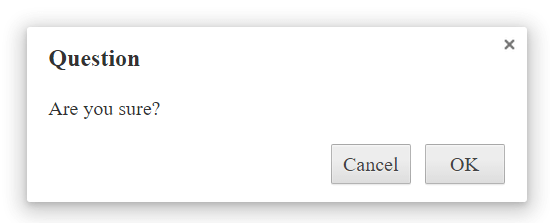
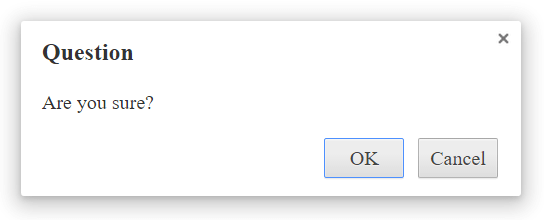
chore(package) v1.4.0

Changed region(s): [[0.0312, 0.1091, 0.9688, 0.9]]

diff --git a/dist/smalltalk.poly.min.js b/dist/smalltalk.poly.min.js
@@ -1,2 +1,2 @@
 /*! promise-polyfill 2.1.0 */
-!function(a){function b(a,b){return function(){a.apply(b,arguments)}}function c(a){if("object"!=typeof this)throw new TypeError("Promises must be constructed via new");if("function"!=typeof a)throw new TypeError("not a function");this._state=null,this._value=null,this._deferreds=[],i(a,b(e,this),b(f,this))}function d(a){var b=this;return null===this._state?void this._deferreds.push(a):void j(function(){var c=b._state?a.onFulfilled:a.onRejected;if(null===c)return void(b._state?a.resolve:a.reject)(b._value);var d;try{d=c(b._value)}catch(e){return void a.reject(e)}a.resolve(d)})}function e(a){try{if(a===this)throw new TypeError("A promise cannot be resolved with itself.");if(a&&("object"==typeof a||"function"==typeof a)){var c=a.then;if("function"==typeof c)return void i(b(c,a),b(e,this),b(f,this))}this._state=!0,this._value=a,g.call(this)}catch(d){f.call(this,d)}}function f(a){this._state=!1,this._value=a,g.call(this)}function g(){for(var a=0,b=this._deferreds.length;b>a;a++)d.call(this,this._deferreds[a]);this._deferreds=null}function h(a,b,c,d){this.onFulfilled="function"==typeof a?a:null,this.onRejected="function"==typeof b?b:null,this.resolve=c,this.reject=d}function i(a,b,c){var d=!1;try{a(function(a){d||(d=!0,b(a))},function(a){d||(d=!0,c(a))})}catch(e){if(d)return;d=!0,c(e)}}var j="function"==typeof setImmediate&&setImmediate||function(a){setTimeout(a,1)},k=Array.isArray||function(a){return"[object Array]"===Object.prototype.toString.call(a)};c.prototype["catch"]=function(a){return this.then(null,a)},c.prototype.then=function(a,b){var e=this;return new c(function(c,f){d.call(e,new h(a,b,c,f))})},c.all=function(){var a=Array.prototype.slice.call(1===arguments.length&&k(arguments[0])?arguments[0]:arguments);return new c(function(b,c){function d(f,g){try{if(g&&("object"==typeof g||"function"==typeof g)){var h=g.then;if("function"==typeof h)return void h.call(g,function(a){d(f,a)},c)}a[f]=g,0===--e&&b(a)}catch(i){c(i)}}if(0===a.length)return b([]);for(var e=a.length,f=0;f<a.length;f++)d(f,a[f])})},c.resolve=function(a){return a&&"object"==typeof a&&a.constructor===c?a:new c(function(b){b(a)})},c.reject=function(a){return new c(function(b,c){c(a)})},c.race=function(a){return new c(function(b,c){for(var d=0,e=a.length;e>d;d++)a[d].then(b,c)})},c._setImmediateFn=function(a){j=a},"undefined"!=typeof module&&module.exports?module.exports=c:a.Promise||(a.Promise=c)}(this);"use strict";!function(n){function t(n){function e(n,t,e,r){if(!Array.isArray(r))throw Error("buttons should be array!");return'<div class="page">\n                <div data-name="js-close" class="close-button"></div>\n                <header>'+n+'</header>\n                <div class="content-area">\n                    '+t+"\n                    "+e+'\n                </div>\n                <div class="action-area">\n                    <div class="button-strip"> '+r.map(function(n,t){return"<button tabindex="+t+' data-name="js-'+n.toLowerCase()+'">'+n+"</button>"}).join("")+"\n                    </div>\n                </div>\n            </div>"}function r(n,t,r,o,u){var c=document.createElement("div"),s=["cancel","close","ok"],d=void 0,v=void 0,m=new Promise(function(n,t){var e=u&&!u.cancel,r=function(){};d=n,v=t,e&&(v=r)}),p=e(n,t,r,o);return c.innerHTML=p,c.className="smalltalk",document.body.appendChild(c),l(c,["ok"]).forEach(function(n){return n.focus()}),l(c,["input"]).forEach(function(n){return n.setSelectionRange(0,r.length)}),f("click",c,s,function(n){return i(n.target,c,d,v)}),["click","contextmenu"].forEach(function(n){return c.addEventListener(n,function(){return l(c,["ok","input"]).forEach(function(n){return n.focus()})})}),c.addEventListener("keydown",a(c,d,v)),m}function a(n,t,e){return function(r){var a={ENTER:13,ESC:27,TAB:9,LEFT:37,UP:38,RIGHT:39,DOWN:40},f=r.keyCode,s=r.target,d=["cancel","ok","input"],m=l(n,d).map(function(n){return o(n)});switch(f){case a.ENTER:i(s,n,t,e),r.preventDefault();break;case a.ESC:v(),e();break;case a.TAB:r.shiftKey&&c(n,m),c(n,m),r.preventDefault();break;default:var p=["left","right","up","down"].some(function(n){return f===a[n.toUpperCase()]});p&&u(n,m)}r.stopPropagation()}}function o(n){return n.getAttribute("data-name").replace("js-","")}function u(n,t){var e="",r=document.activeElement,a=o(r),u=/ok|cancel/.test(a),c=t.length-1;c&&u&&(e="cancel"===a?"ok":"cancel",l(n,[e]).forEach(function(n){return n.focus()}))}function c(n,t){var e=document.activeElement,r=o(e),a=t.length-1,u=t.indexOf(r);u===a?u=0:a>u&&++u;var c=t[u];l(n,[c]).forEach(function(n){return n.focus()})}function i(n,t,e,r){var a=void 0,o=n.getAttribute("data-name").replace("js-","");/close|cancel/.test(o)?r():(a=l(t,["input"]).reduce(function(n,t){return t.value},null),e(a)),v()}function l(n,t){var e=t.map(function(t){return n.querySelector('[data-name="js-'+t+'"]')}).filter(function(n){return n});return e}function f(n,t,e,r){l(t,e).forEach(function(t){return t.addEventListener(n,function(n){return r(n)})})}function s(n){var t=document.querySelector(n);t.parentElement.removeChild(t)}function d(n){var t=[].slice.call(arguments,1);return n.bind(null,t)}if(!(this instanceof t))return new t(n);var v=d(s,".smalltalk"),m=["OK"],p=["Cancel","OK"];this.alert=function(n,t,e){return r(n,t,"",m,e)},this.prompt=function(n,t,e,a){var o=e||"",u='<input type="text" value="'+o+'" data-name="js-input">';return r(n,t,u,p,a)},this.confirm=function(n,t,e){return r(n,t,"",p,e)}}"undefined"!=typeof module&&module.exports?module.exports=t():n.smalltalk=t()}("undefined"!=typeof window&&window);
+!function(a){function b(a,b){return function(){a.apply(b,arguments)}}function c(a){if("object"!=typeof this)throw new TypeError("Promises must be constructed via new");if("function"!=typeof a)throw new TypeError("not a function");this._state=null,this._value=null,this._deferreds=[],i(a,b(e,this),b(f,this))}function d(a){var b=this;return null===this._state?void this._deferreds.push(a):void j(function(){var c=b._state?a.onFulfilled:a.onRejected;if(null===c)return void(b._state?a.resolve:a.reject)(b._value);var d;try{d=c(b._value)}catch(e){return void a.reject(e)}a.resolve(d)})}function e(a){try{if(a===this)throw new TypeError("A promise cannot be resolved with itself.");if(a&&("object"==typeof a||"function"==typeof a)){var c=a.then;if("function"==typeof c)return void i(b(c,a),b(e,this),b(f,this))}this._state=!0,this._value=a,g.call(this)}catch(d){f.call(this,d)}}function f(a){this._state=!1,this._value=a,g.call(this)}function g(){for(var a=0,b=this._deferreds.length;b>a;a++)d.call(this,this._deferreds[a]);this._deferreds=null}function h(a,b,c,d){this.onFulfilled="function"==typeof a?a:null,this.onRejected="function"==typeof b?b:null,this.resolve=c,this.reject=d}function i(a,b,c){var d=!1;try{a(function(a){d||(d=!0,b(a))},function(a){d||(d=!0,c(a))})}catch(e){if(d)return;d=!0,c(e)}}var j="function"==typeof setImmediate&&setImmediate||function(a){setTimeout(a,1)},k=Array.isArray||function(a){return"[object Array]"===Object.prototype.toString.call(a)};c.prototype["catch"]=function(a){return this.then(null,a)},c.prototype.then=function(a,b){var e=this;return new c(function(c,f){d.call(e,new h(a,b,c,f))})},c.all=function(){var a=Array.prototype.slice.call(1===arguments.length&&k(arguments[0])?arguments[0]:arguments);return new c(function(b,c){function d(f,g){try{if(g&&("object"==typeof g||"function"==typeof g)){var h=g.then;if("function"==typeof h)return void h.call(g,function(a){d(f,a)},c)}a[f]=g,0===--e&&b(a)}catch(i){c(i)}}if(0===a.length)return b([]);for(var e=a.length,f=0;f<a.length;f++)d(f,a[f])})},c.resolve=function(a){return a&&"object"==typeof a&&a.constructor===c?a:new c(function(b){b(a)})},c.reject=function(a){return new c(function(b,c){c(a)})},c.race=function(a){return new c(function(b,c){for(var d=0,e=a.length;e>d;d++)a[d].then(b,c)})},c._setImmediateFn=function(a){j=a},"undefined"!=typeof module&&module.exports?module.exports=c:a.Promise||(a.Promise=c)}(this);"use strict";!function(n){function t(n){function e(n,t,e,r){if(!Array.isArray(r))throw Error("buttons should be array!");return'<div class="page">\n                <div data-name="js-close" class="close-button"></div>\n                <header>'+n+'</header>\n                <div class="content-area">\n                    '+t+"\n                    "+e+'\n                </div>\n                <div class="action-area">\n                    <div class="button-strip"> '+r.map(function(n,t){return"<button tabindex="+t+' data-name="js-'+n.toLowerCase()+'">'+n+"</button>"}).join("")+"\n                    </div>\n                </div>\n            </div>"}function r(n,t,r,o,u){var c=document.createElement("div"),s=["cancel","close","ok"],d=void 0,v=void 0,m=new Promise(function(n,t){var e=u&&!u.cancel,r=function(){};d=n,v=t,e&&(v=r)}),p=e(n,t,r,o);return c.innerHTML=p,c.className="smalltalk",document.body.appendChild(c),l(c,["ok"]).forEach(function(n){return n.focus()}),l(c,["input"]).forEach(function(n){return n.setSelectionRange(0,r.length)}),f("click",c,s,function(n){return i(n.target,c,d,v)}),["click","contextmenu"].forEach(function(n){return c.addEventListener(n,function(){return l(c,["ok","input"]).forEach(function(n){return n.focus()})})}),c.addEventListener("keydown",a(c,d,v)),m}function a(n,t,e){return function(r){var a={ENTER:13,ESC:27,TAB:9,LEFT:37,UP:38,RIGHT:39,DOWN:40},f=r.keyCode,s=r.target,d=["ok","cancel","input"],m=l(n,d).map(function(n){return o(n)});switch(f){case a.ENTER:i(s,n,t,e),r.preventDefault();break;case a.ESC:v(),e();break;case a.TAB:r.shiftKey&&c(n,m),c(n,m),r.preventDefault();break;default:var p=["left","right","up","down"].some(function(n){return f===a[n.toUpperCase()]});p&&u(n,m)}r.stopPropagation()}}function o(n){return n.getAttribute("data-name").replace("js-","")}function u(n,t){var e="",r=document.activeElement,a=o(r),u=/ok|cancel/.test(a),c=t.length-1;c&&u&&(e="cancel"===a?"ok":"cancel",l(n,[e]).forEach(function(n){return n.focus()}))}function c(n,t){var e=document.activeElement,r=o(e),a=t.length-1,u=t.indexOf(r);u===a?u=0:a>u&&++u;var c=t[u];l(n,[c]).forEach(function(n){return n.focus()})}function i(n,t,e,r){var a=void 0,o=n.getAttribute("data-name").replace("js-","");/close|cancel/.test(o)?r():(a=l(t,["input"]).reduce(function(n,t){return t.value},null),e(a)),v()}function l(n,t){var e=t.map(function(t){return n.querySelector('[data-name="js-'+t+'"]')}).filter(function(n){return n});return e}function f(n,t,e,r){l(t,e).forEach(function(t){return t.addEventListener(n,function(n){return r(n)})})}function s(n){var t=document.querySelector(n);t.parentElement.removeChild(t)}function d(n){var t=[].slice.call(arguments,1);return n.bind(null,t)}if(!(this instanceof t))return new t(n);var v=d(s,".smalltalk"),m=["OK"],p=["OK","Cancel"];this.alert=function(n,t,e){return r(n,t,"",m,e)},this.prompt=function(n,t,e,a){var o=e||"",u='<input type="text" value="'+o+'" data-name="js-input">';return r(n,t,u,p,a)},this.confirm=function(n,t,e){return r(n,t,"",p,e)}}"undefined"!=typeof module&&module.exports?module.exports=t():n.smalltalk=t()}("undefined"!=typeof window&&window);

diff --git a/dist/smalltalk.min.js b/dist/smalltalk.min.js
@@ -1,1 +1,1 @@
-"use strict";!function(n){function t(n){function e(n,t,e,r){if(!Array.isArray(r))throw Error("buttons should be array!");return'<div class="page">\n                <div data-name="js-close" class="close-button"></div>\n                <header>'+n+'</header>\n                <div class="content-area">\n                    '+t+"\n                    "+e+'\n                </div>\n                <div class="action-area">\n                    <div class="button-strip"> '+r.map(function(n,t){return"<button tabindex="+t+' data-name="js-'+n.toLowerCase()+'">'+n+"</button>"}).join("")+"\n                    </div>\n                </div>\n            </div>"}function r(n,t,r,o,u){var c=document.createElement("div"),s=["cancel","close","ok"],d=void 0,v=void 0,m=new Promise(function(n,t){var e=u&&!u.cancel,r=function(){};d=n,v=t,e&&(v=r)}),p=e(n,t,r,o);return c.innerHTML=p,c.className="smalltalk",document.body.appendChild(c),l(c,["ok"]).forEach(function(n){return n.focus()}),l(c,["input"]).forEach(function(n){return n.setSelectionRange(0,r.length)}),f("click",c,s,function(n){return i(n.target,c,d,v)}),["click","contextmenu"].forEach(function(n){return c.addEventListener(n,function(){return l(c,["ok","input"]).forEach(function(n){return n.focus()})})}),c.addEventListener("keydown",a(c,d,v)),m}function a(n,t,e){return function(r){var a={ENTER:13,ESC:27,TAB:9,LEFT:37,UP:38,RIGHT:39,DOWN:40},f=r.keyCode,s=r.target,d=["cancel","ok","input"],m=l(n,d).map(function(n){return o(n)});switch(f){case a.ENTER:i(s,n,t,e),r.preventDefault();break;case a.ESC:v(),e();break;case a.TAB:r.shiftKey&&c(n,m),c(n,m),r.preventDefault();break;default:var p=["left","right","up","down"].some(function(n){return f===a[n.toUpperCase()]});p&&u(n,m)}r.stopPropagation()}}function o(n){return n.getAttribute("data-name").replace("js-","")}function u(n,t){var e="",r=document.activeElement,a=o(r),u=/ok|cancel/.test(a),c=t.length-1;c&&u&&(e="cancel"===a?"ok":"cancel",l(n,[e]).forEach(function(n){return n.focus()}))}function c(n,t){var e=document.activeElement,r=o(e),a=t.length-1,u=t.indexOf(r);u===a?u=0:a>u&&++u;var c=t[u];l(n,[c]).forEach(function(n){return n.focus()})}function i(n,t,e,r){var a=void 0,o=n.getAttribute("data-name").replace("js-","");/close|cancel/.test(o)?r():(a=l(t,["input"]).reduce(function(n,t){return t.value},null),e(a)),v()}function l(n,t){var e=t.map(function(t){return n.querySelector('[data-name="js-'+t+'"]')}).filter(function(n){return n});return e}function f(n,t,e,r){l(t,e).forEach(function(t){return t.addEventListener(n,function(n){return r(n)})})}function s(n){var t=document.querySelector(n);t.parentElement.removeChild(t)}function d(n){var t=[].slice.call(arguments,1);return n.bind(null,t)}if(!(this instanceof t))return new t(n);var v=d(s,".smalltalk"),m=["OK"],p=["Cancel","OK"];this.alert=function(n,t,e){return r(n,t,"",m,e)},this.prompt=function(n,t,e,a){var o=e||"",u='<input type="text" value="'+o+'" data-name="js-input">';return r(n,t,u,p,a)},this.confirm=function(n,t,e){return r(n,t,"",p,e)}}"undefined"!=typeof module&&module.exports?module.exports=t():n.smalltalk=t()}("undefined"!=typeof window&&window);
+"use strict";!function(n){function t(n){function e(n,t,e,r){if(!Array.isArray(r))throw Error("buttons should be array!");return'<div class="page">\n                <div data-name="js-close" class="close-button"></div>\n                <header>'+n+'</header>\n                <div class="content-area">\n                    '+t+"\n                    "+e+'\n                </div>\n                <div class="action-area">\n                    <div class="button-strip"> '+r.map(function(n,t){return"<button tabindex="+t+' data-name="js-'+n.toLowerCase()+'">'+n+"</button>"}).join("")+"\n                    </div>\n                </div>\n            </div>"}function r(n,t,r,o,u){var c=document.createElement("div"),s=["cancel","close","ok"],d=void 0,v=void 0,m=new Promise(function(n,t){var e=u&&!u.cancel,r=function(){};d=n,v=t,e&&(v=r)}),p=e(n,t,r,o);return c.innerHTML=p,c.className="smalltalk",document.body.appendChild(c),l(c,["ok"]).forEach(function(n){return n.focus()}),l(c,["input"]).forEach(function(n){return n.setSelectionRange(0,r.length)}),f("click",c,s,function(n){return i(n.target,c,d,v)}),["click","contextmenu"].forEach(function(n){return c.addEventListener(n,function(){return l(c,["ok","input"]).forEach(function(n){return n.focus()})})}),c.addEventListener("keydown",a(c,d,v)),m}function a(n,t,e){return function(r){var a={ENTER:13,ESC:27,TAB:9,LEFT:37,UP:38,RIGHT:39,DOWN:40},f=r.keyCode,s=r.target,d=["ok","cancel","input"],m=l(n,d).map(function(n){return o(n)});switch(f){case a.ENTER:i(s,n,t,e),r.preventDefault();break;case a.ESC:v(),e();break;case a.TAB:r.shiftKey&&c(n,m),c(n,m),r.preventDefault();break;default:var p=["left","right","up","down"].some(function(n){return f===a[n.toUpperCase()]});p&&u(n,m)}r.stopPropagation()}}function o(n){return n.getAttribute("data-name").replace("js-","")}function u(n,t){var e="",r=document.activeElement,a=o(r),u=/ok|cancel/.test(a),c=t.length-1;c&&u&&(e="cancel"===a?"ok":"cancel",l(n,[e]).forEach(function(n){return n.focus()}))}function c(n,t){var e=document.activeElement,r=o(e),a=t.length-1,u=t.indexOf(r);u===a?u=0:a>u&&++u;var c=t[u];l(n,[c]).forEach(function(n){return n.focus()})}function i(n,t,e,r){var a=void 0,o=n.getAttribute("data-name").replace("js-","");/close|cancel/.test(o)?r():(a=l(t,["input"]).reduce(function(n,t){return t.value},null),e(a)),v()}function l(n,t){var e=t.map(function(t){return n.querySelector('[data-name="js-'+t+'"]')}).filter(function(n){return n});return e}function f(n,t,e,r){l(t,e).forEach(function(t){return t.addEventListener(n,function(n){return r(n)})})}function s(n){var t=document.querySelector(n);t.parentElement.removeChild(t)}function d(n){var t=[].slice.call(arguments,1);return n.bind(null,t)}if(!(this instanceof t))return new t(n);var v=d(s,".smalltalk"),m=["OK"],p=["OK","Cancel"];this.alert=function(n,t,e){return r(n,t,"",m,e)},this.prompt=function(n,t,e,a){var o=e||"",u='<input type="text" value="'+o+'" data-name="js-input">';return r(n,t,u,p,a)},this.confirm=function(n,t,e){return r(n,t,"",p,e)}}"undefined"!=typeof module&&module.exports?module.exports=t():n.smalltalk=t()}("undefined"!=typeof window&&window);

diff --git a/dist/smalltalk.js b/dist/smalltalk.js
@@ -11,7 +11,7 @@
         var remove = bind(removeEl, '.smalltalk');
 
         var BUTTON_OK = ['OK'];
-        var BUTTON_OK_CANCEL = ['Cancel', 'OK'];
+        var BUTTON_OK_CANCEL = ['OK', 'Cancel'];
 
         this.alert = function (title, msg, options) {
             return showDialog(title, msg, '', BUTTON_OK, options);
@@ -97,7 +97,7 @@
                 var keyCode = event.keyCode,
                     el = event.target;
 
-                var namesAll = ['cancel', 'ok', 'input'],
+                var namesAll = ['ok', 'cancel', 'input'],
                     names = find(dialog, namesAll).map(function (el) {
                     return getDataName(el);
                 });
